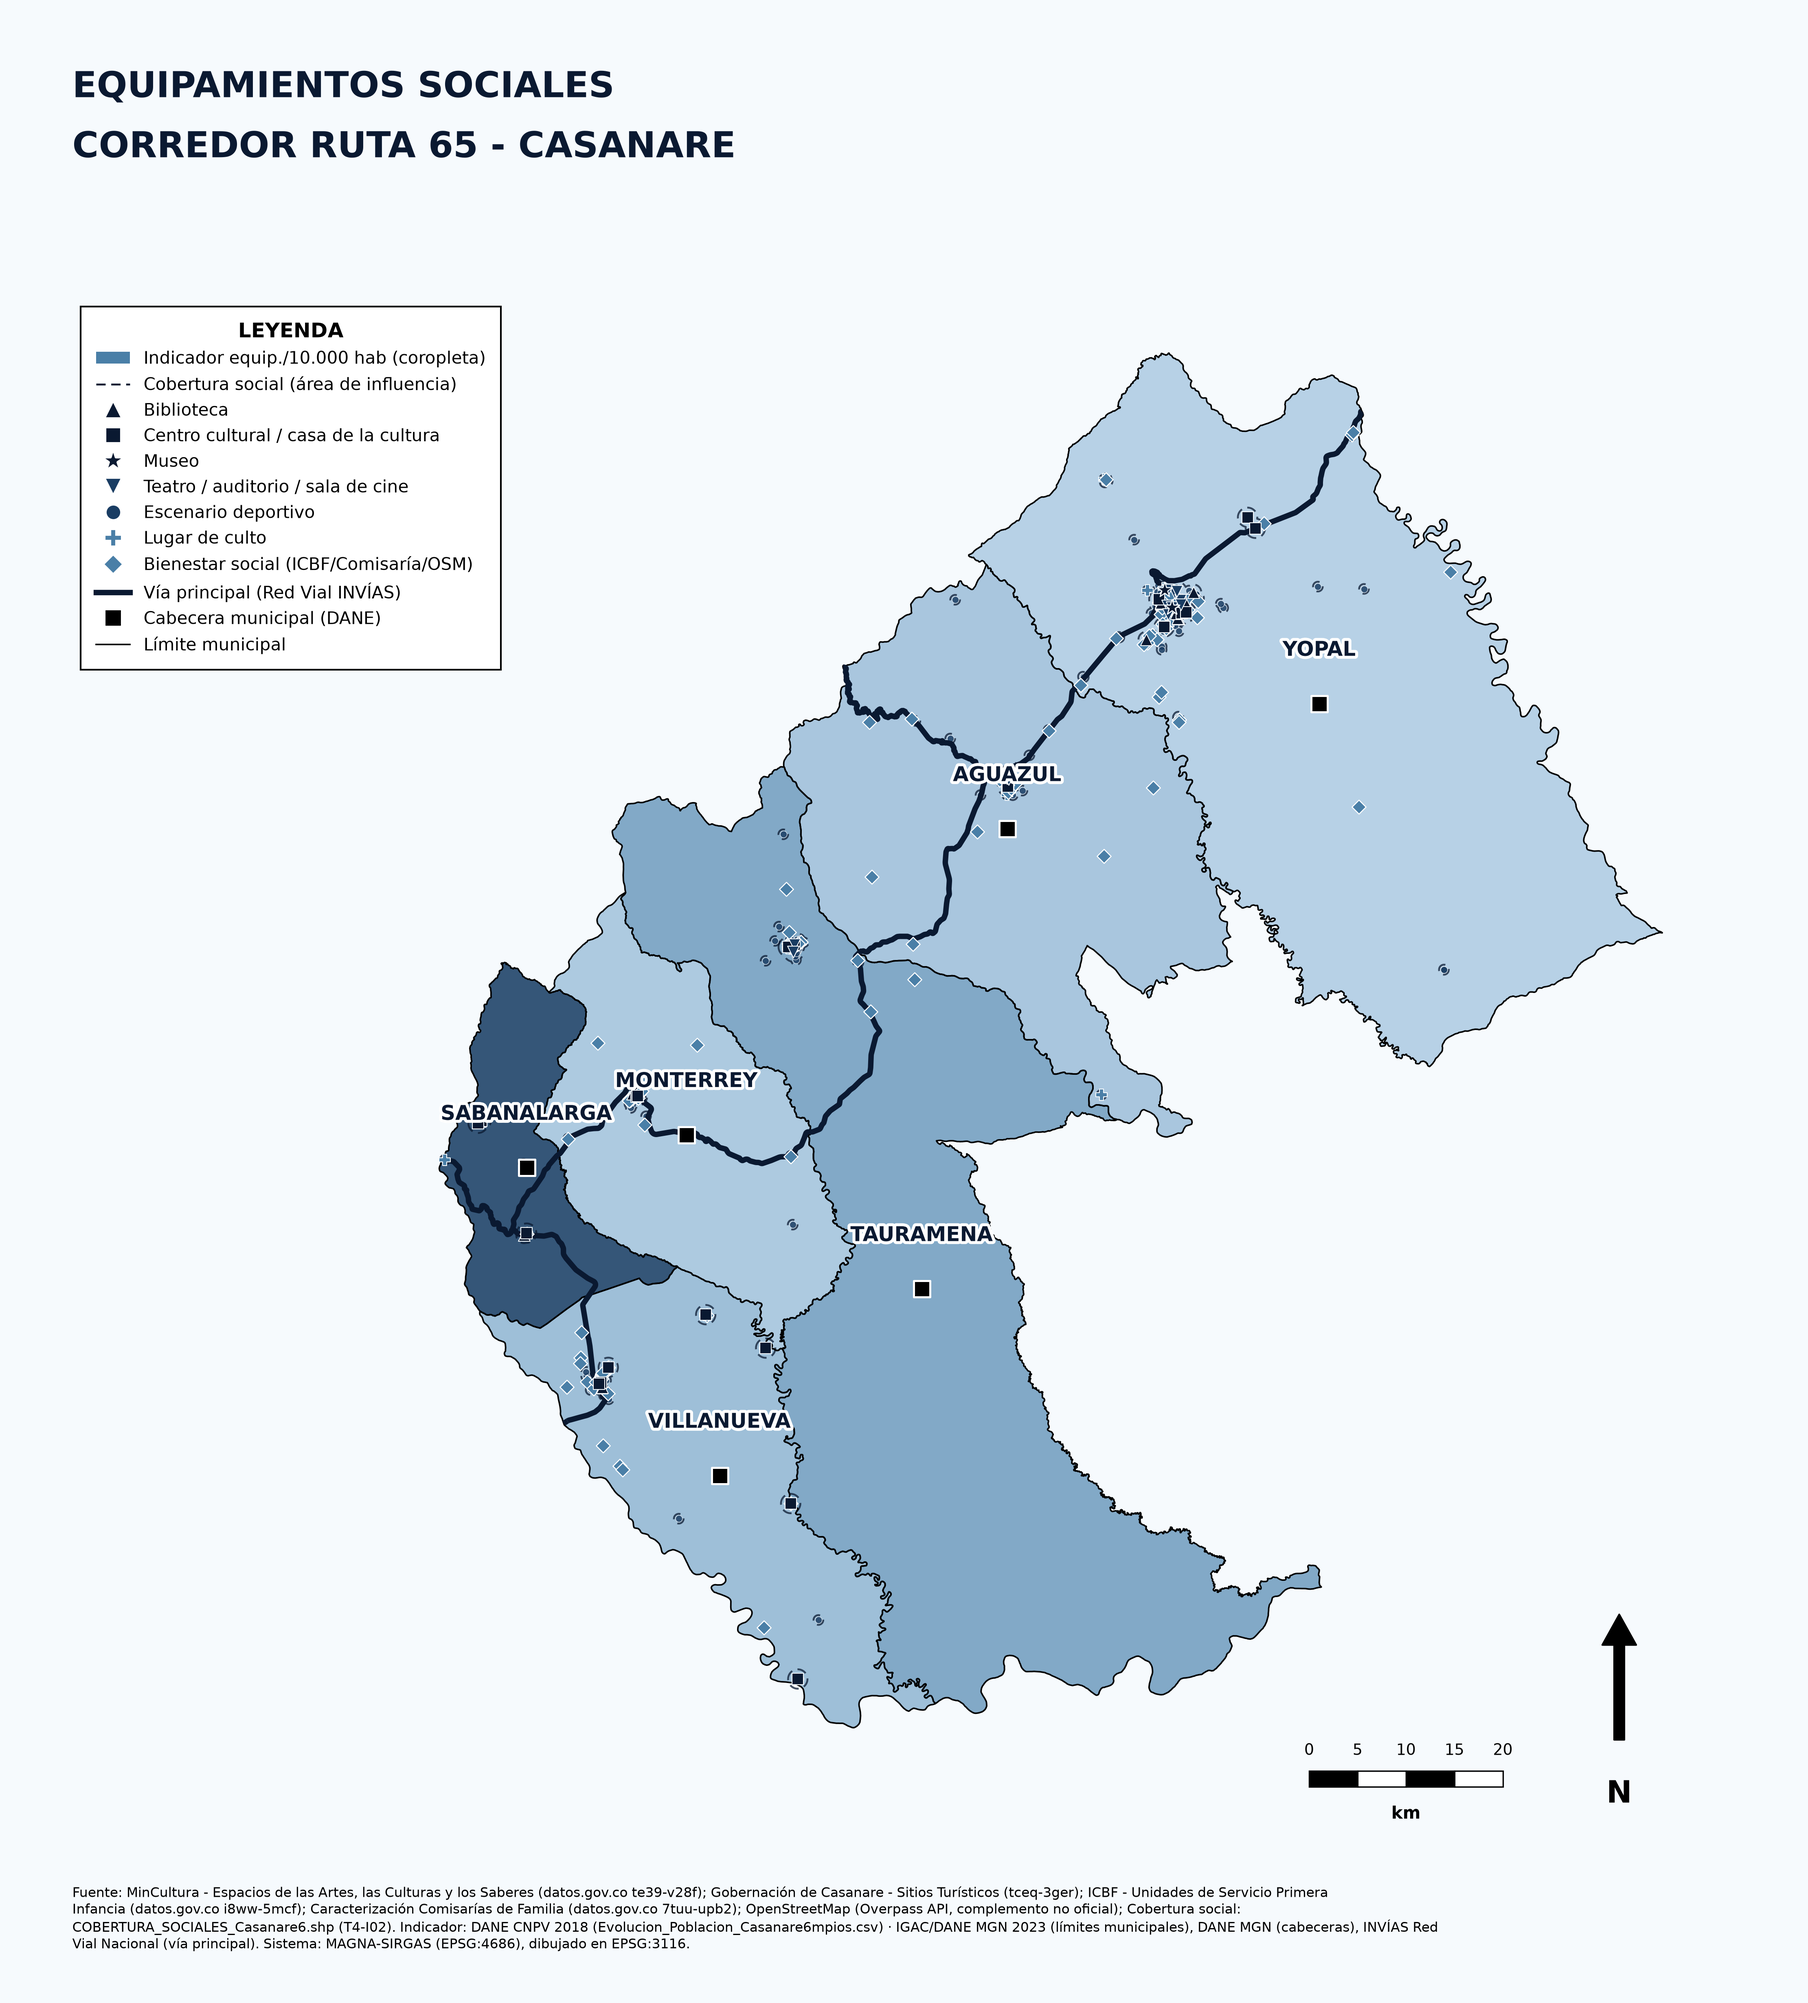
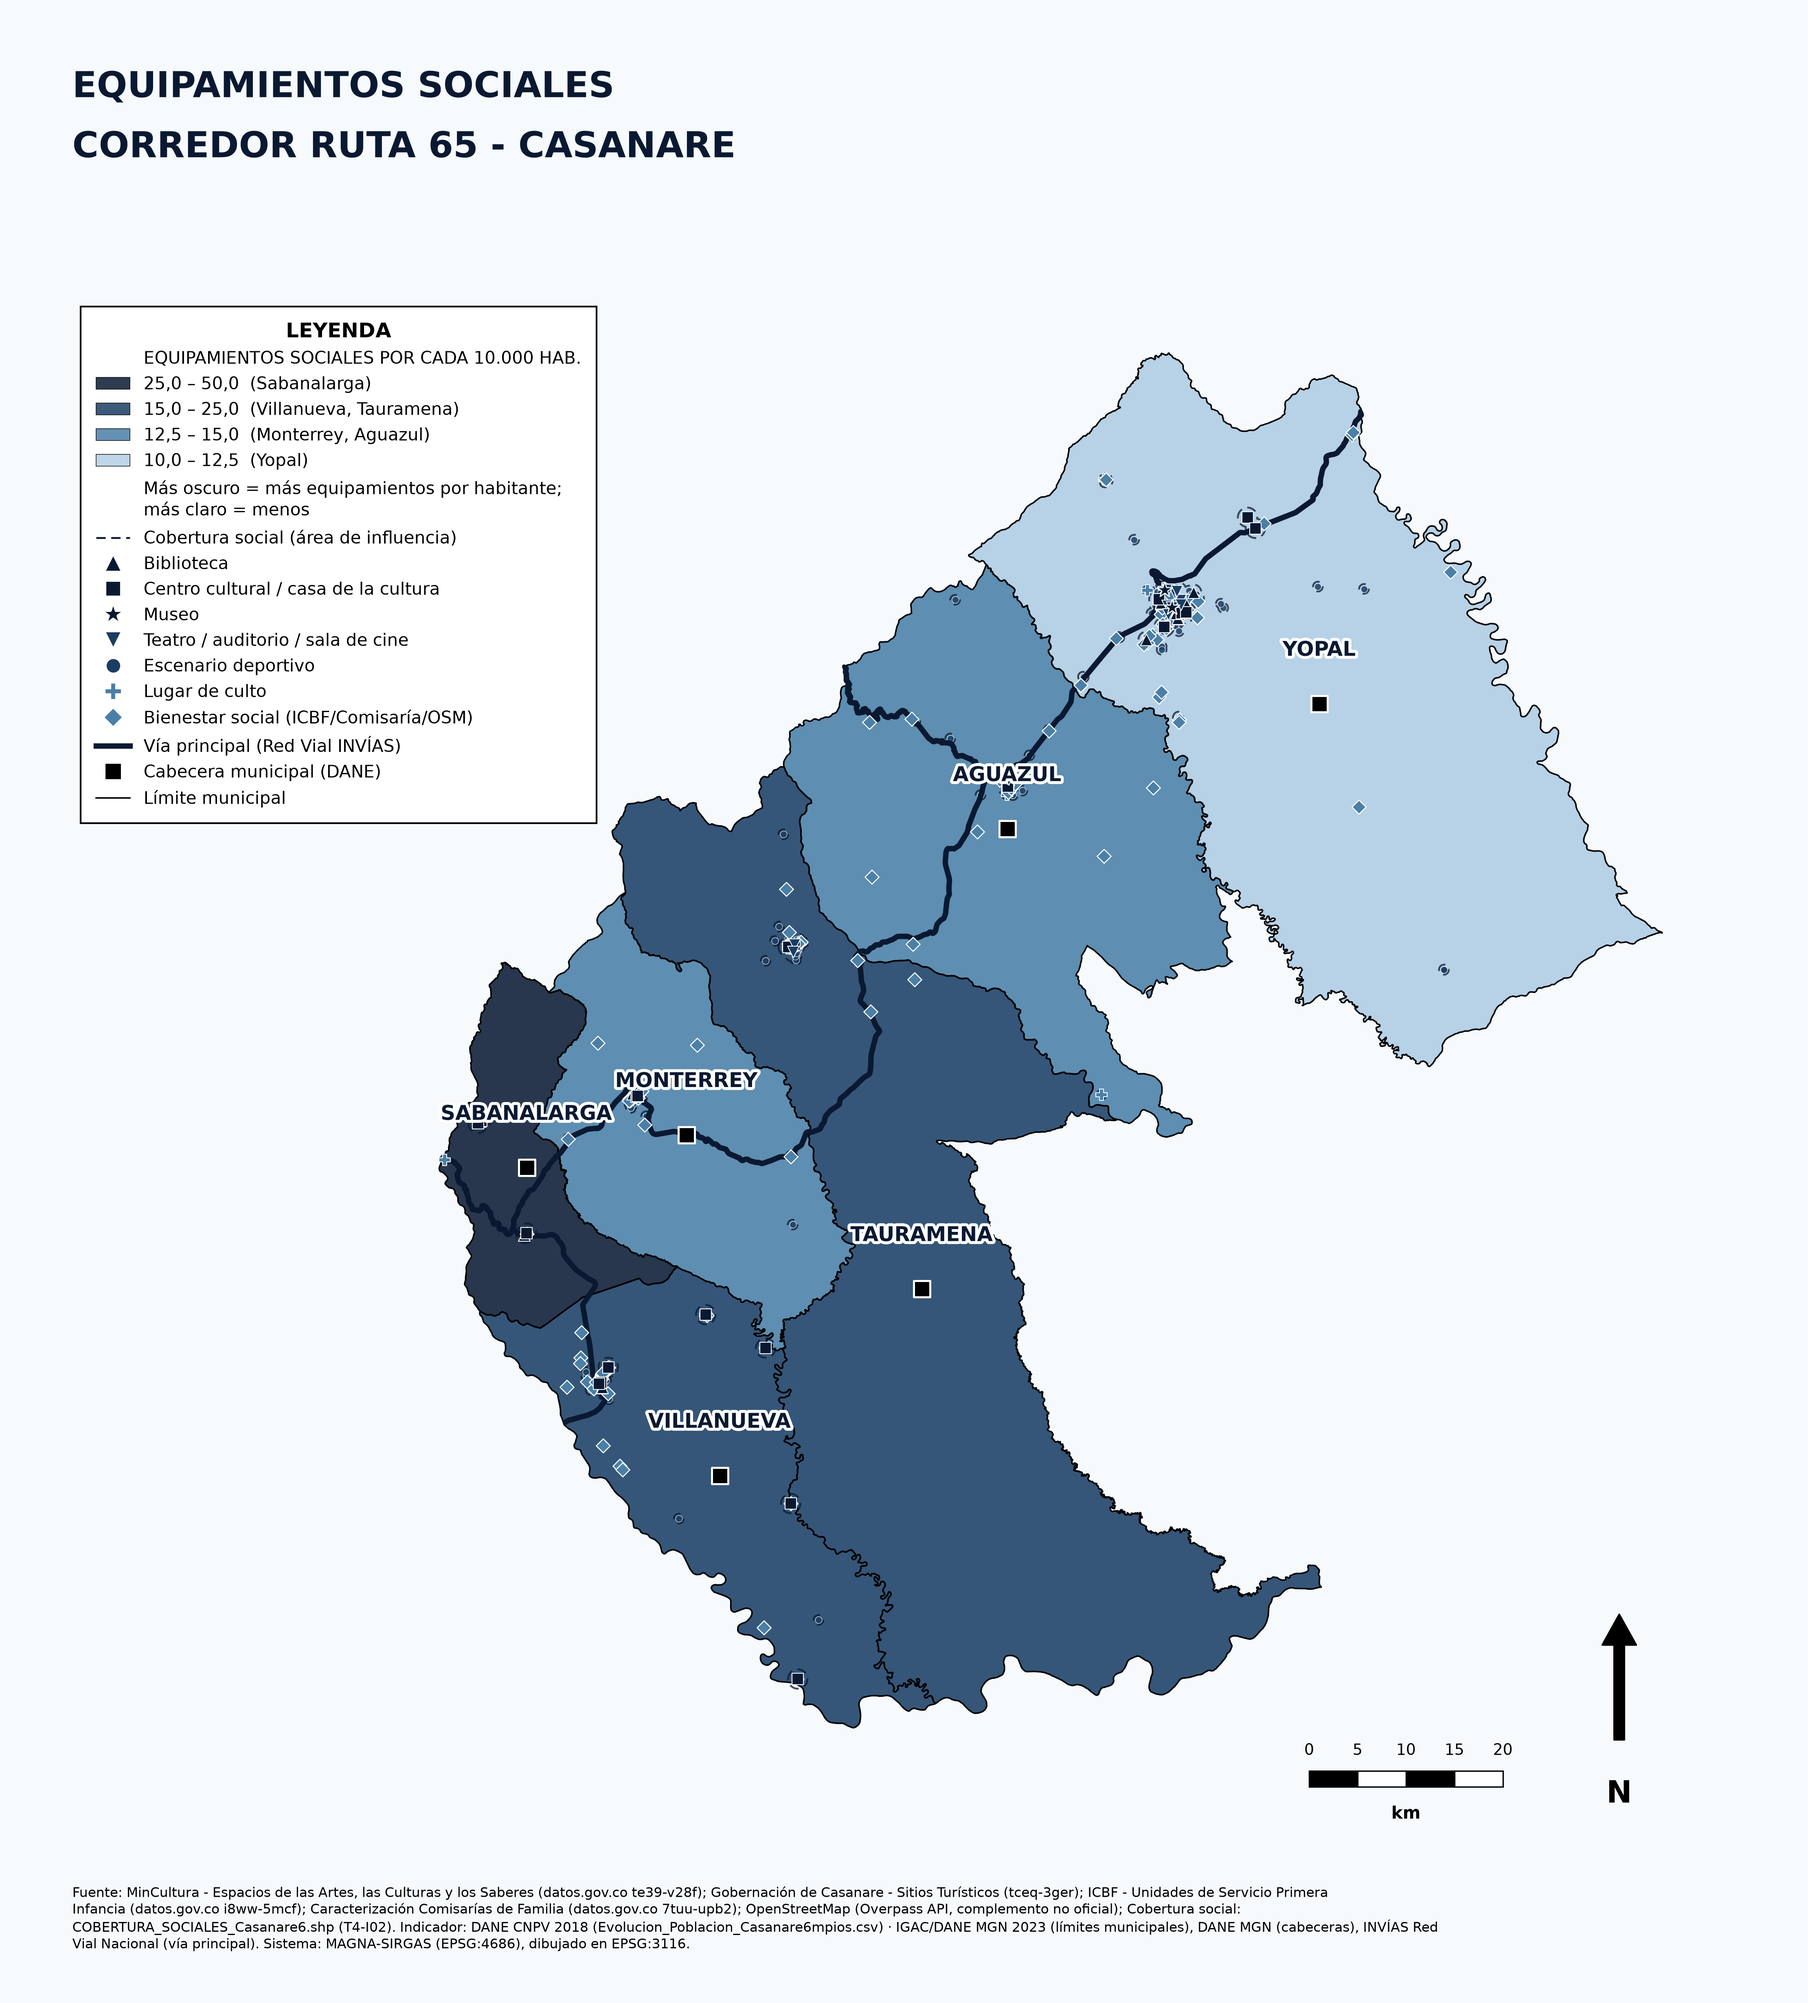
Publica cambios de integración parcial y leyenda por clases del mapa social

Changed region(s): [[0.2486, 0.2799, 0.7459, 0.8707], [0.0311, 0.1555, 0.2797, 0.4043]]

diff --git a/index.html b/index.html
@@ -714,7 +714,7 @@ html,body{max-width:100%;overflow-x:clip}
             <span class="stat-val">54.8 %</span>
             <span class="stat-lbl">De los equipamientos está en Yopal (523)</span>
           </div>
-          <div class="stat"><span class="stat-val">954</span><span class="stat-lbl">Puntos tras deduplicar 1.049 registros brutos</span></div>
+          <div class="stat"><span class="stat-val">954</span><span class="stat-lbl">Equipamientos en el corredor</span></div>
           <div class="stat"><span class="stat-val">52 %</span><span class="stat-lbl">Deportivo (252) + educación (248)</span></div>
           <div class="stat stat--wide"><span class="stat-val">30</span><span class="stat-lbl">Equipamientos en Sabanalarga — el mínimo del corredor, con solo <b>1 punto de salud</b></span></div>
         </div>
@@ -920,7 +920,7 @@ html,body{max-width:100%;overflow-x:clip}
     <div class="lamina-body">
       <figure class="plate plate--map">
         <div class="plate-tag"><span class="label">Mapa · Equipamientos sociales</span><span class="code">M-04</span></div>
-        <div class="plate-img"><img src="mapas/Sociales.png" width="4440" height="4920" alt="Mapa de equipamientos sociales" loading="lazy"></div>
+        <div class="plate-img"><img src="mapas/Sociales.png?v=2" width="4440" height="4920" alt="Mapa de equipamientos sociales" loading="lazy"></div>
         <figcaption>Bibliotecas, cultura, culto, deporte y bienestar</figcaption>
       </figure>
 
